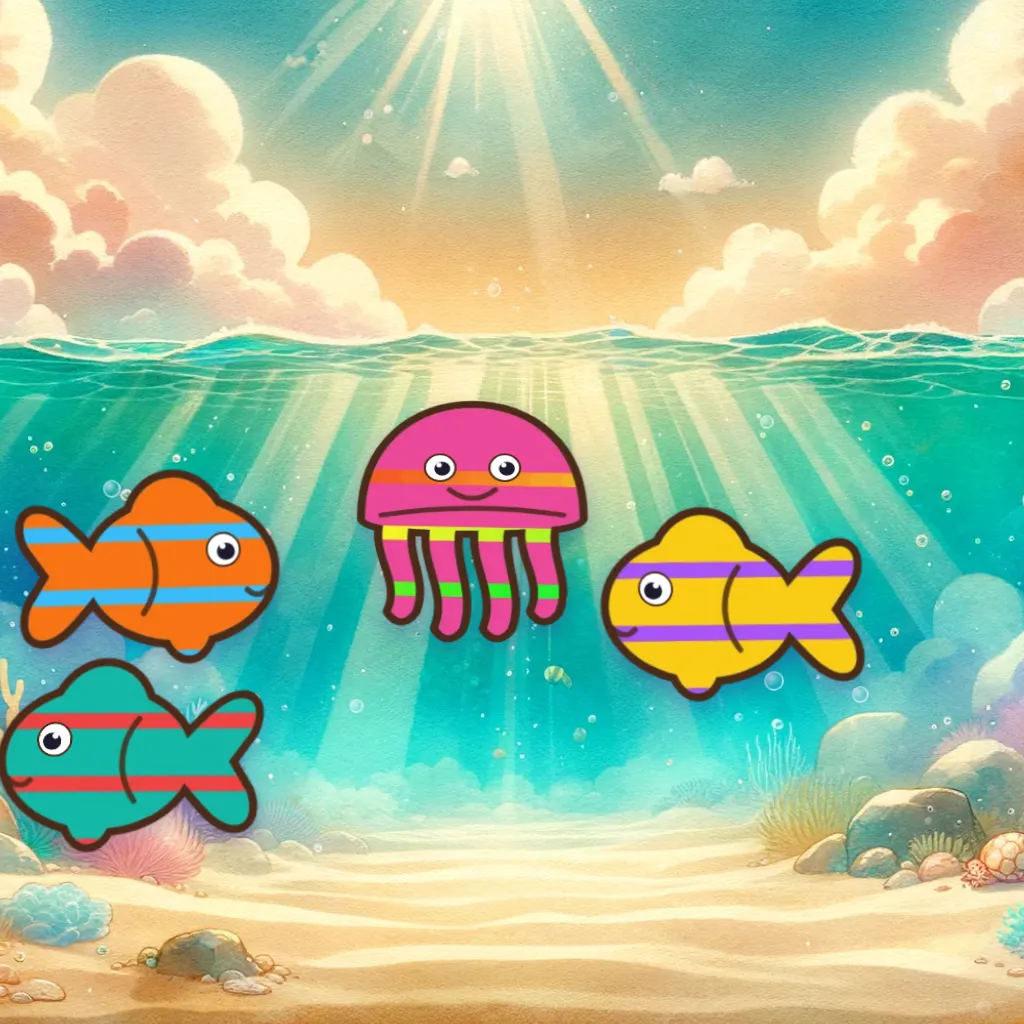
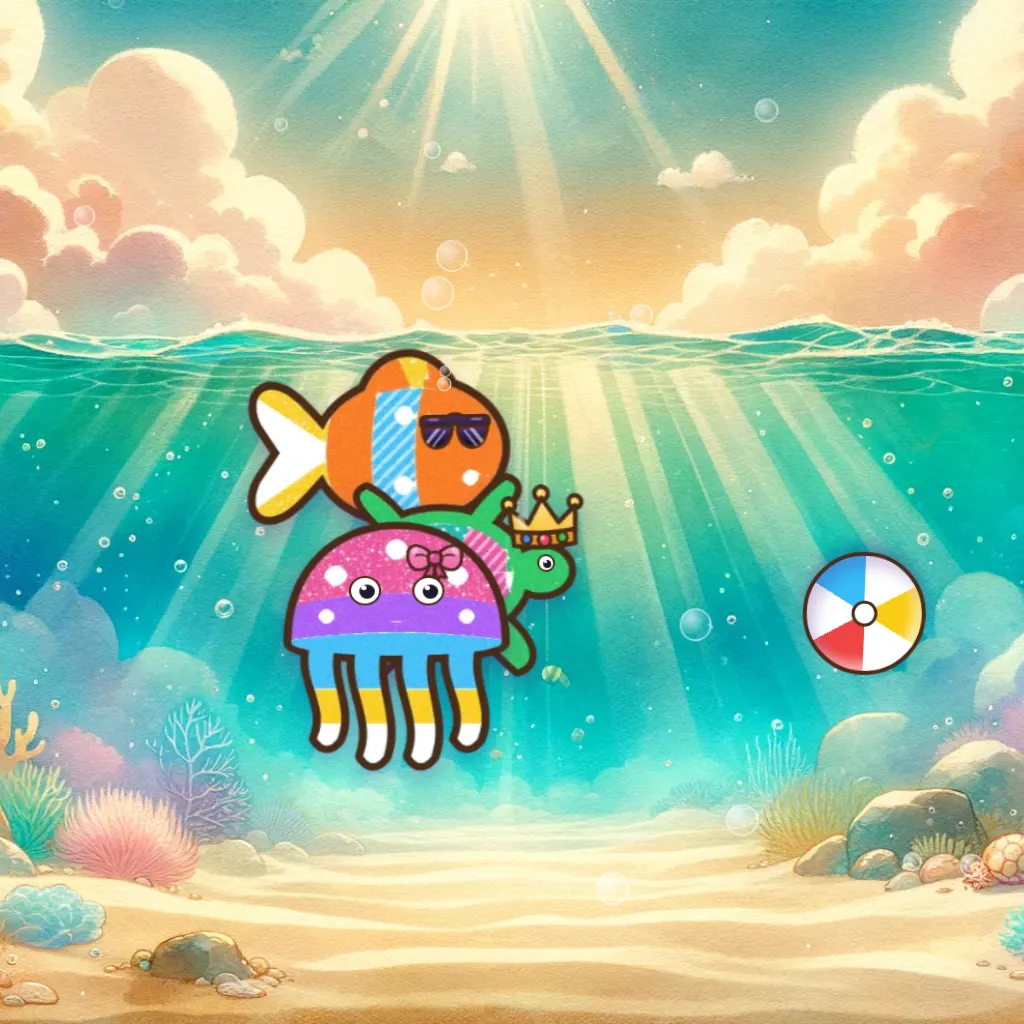
Draw Alive: keep the sea ball and swimmers underwater; new card cover
Claude-Session: https://claude.ai/code/session_01P7VTqqiJK6wZSBSwqYJLfi

diff --git a/src/games/draw-alive/LiveWorld.jsx b/src/games/draw-alive/LiveWorld.jsx
@@ -106,7 +106,7 @@ function chase(st, f, H, box) {
     if (Math.abs(f.x - st.x) > 8) st.dir = f.x > st.x ? 1 : -1;
     st.lane = st.motion === 'walk'
       ? clamp((f.y - box.h * 0.3) / H, st.z0, st.z1)
-      : clamp(f.y / H, 0.3, 0.9);
+      : clamp(f.y / H, Math.max(0.3, st.z0 - 0.04), 0.9);
   }
 }
 
@@ -593,7 +593,8 @@ export default function LiveWorld({ world, creatures, newcomerId, onBorn, onFed,
               b.vy = Math.abs(b.vy) > 80 ? -b.vy * 0.6 : 0;
               b.vx *= Math.pow(0.3, dt);
             }
-            if (b.y < r) { b.y = r; b.vy = Math.abs(b.vy) * 0.7; }
+            const ceiling = mode === 'water' ? H * 0.38 : r; // underwater, the ball stays below the surface
+            if (b.y < ceiling) { b.y = ceiling; b.vy = Math.abs(b.vy) * 0.7; }
             if (b.x < r) { b.x = r; b.vx = Math.abs(b.vx) * 0.8; }
             if (b.x > W - r) { b.x = W - r; b.vx = -Math.abs(b.vx) * 0.8; }
             b.spin += (b.vx * dt) / r;
